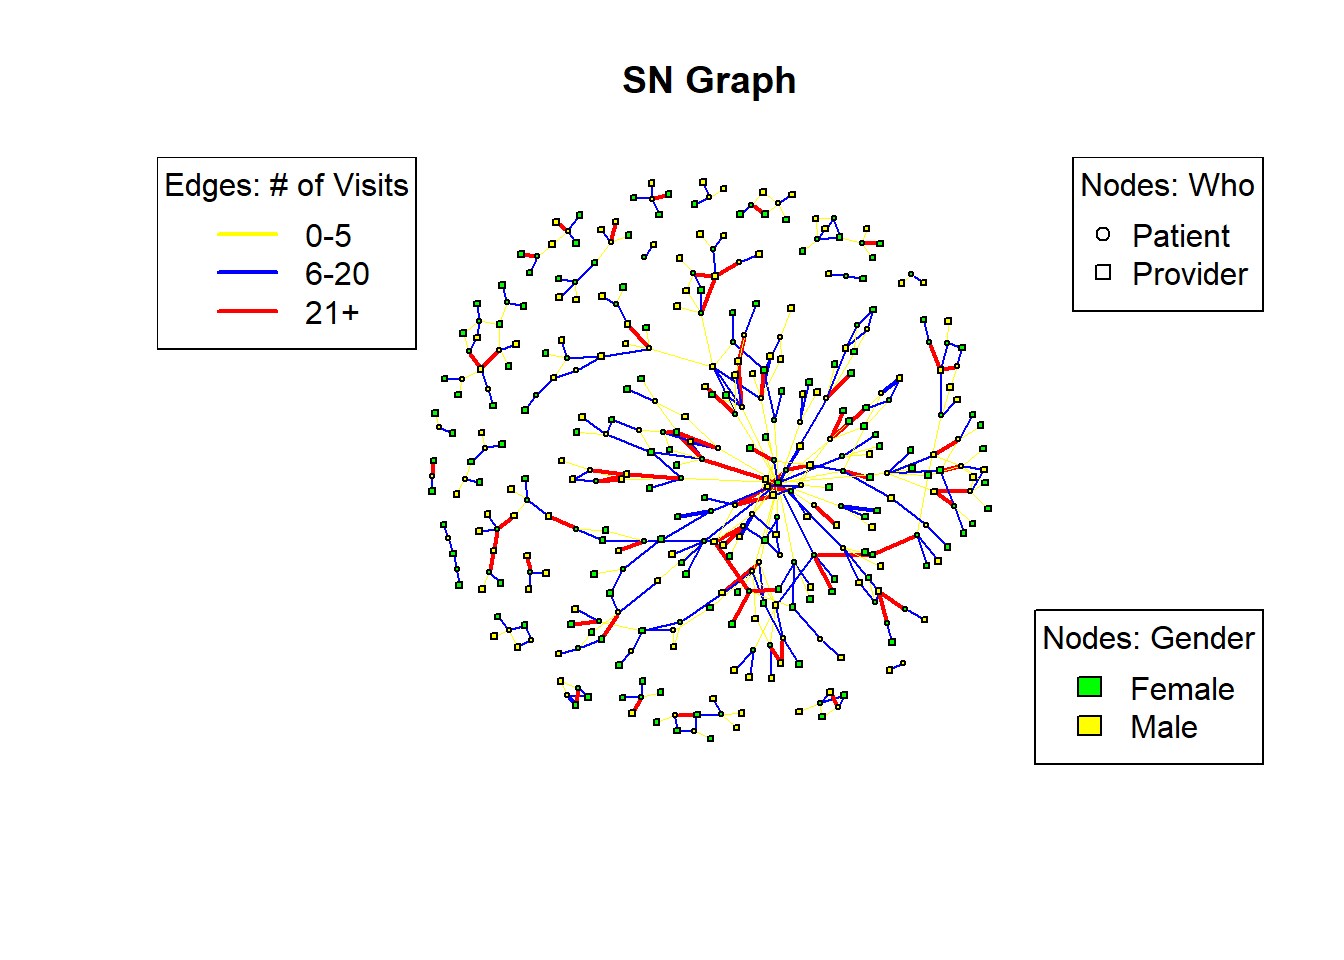
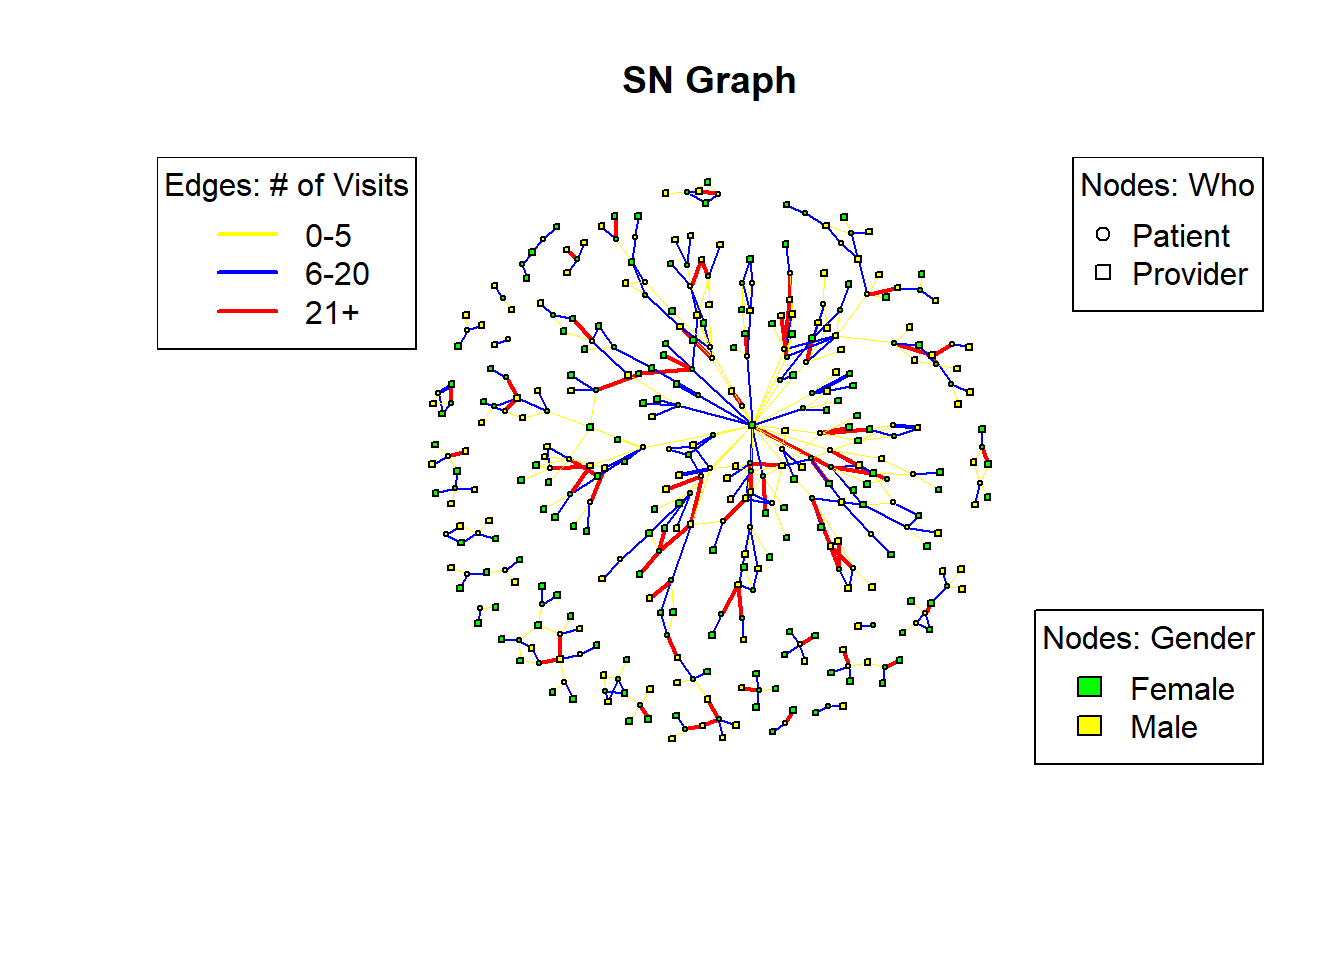
graph legend

Changed region(s): [[0.3125, 0.1875, 0.75, 0.7812]]

diff --git a/docs/index.html b/docs/index.html
@@ -170,7 +170,7 @@ ul.task-list li input[type="checkbox"] {
 
 <div class="quarto-listing quarto-listing-container-default" id="listing-listing">
 <div class="list quarto-listing-default">
-<div class="quarto-post image-right" data-index="0" data-categories="news" data-listing-date-sort="1713326400000" data-listing-file-modified-sort="1713646548932" data-listing-date-modified-sort="NaN" data-listing-reading-time-sort="8">
+<div class="quarto-post image-right" data-index="0" data-categories="news" data-listing-date-sort="1713326400000" data-listing-file-modified-sort="1713646865965" data-listing-date-modified-sort="NaN" data-listing-reading-time-sort="8">
 <div class="thumbnail">
 <p><a href="./posts/Post_One/post_1.html"> <p class="card-img-top"><img src="posts\Post_One\SyntheticMassLogo.png"  class="thumbnail-image card-img"/></p> </a></p>
 </div>
@@ -190,7 +190,7 @@ news
 </div>
 <a href="./posts/Post_One/post_1.html">
 <div class="listing-description">
-Tasks - rename the attribute dimensions for - Marital Status, Gender - fix the age code (need to subtract from DEATHDATE if one exists first) - age might be a better…
+Tasks - rename the attribute dimensions for - Marital Status, Gender - fix the age code (need to subtract from DEATHDATE if one exists first) - age…
 </div>
 </a>
 </div>

diff --git a/docs/posts/Post_One/post_1.html b/docs/posts/Post_One/post_1.html
@@ -180,7 +180,7 @@ pre > code.sourceCode > span > a:first-child::before { text-decoration: underlin
 
 
 
-<p>Tasks - rename the attribute dimensions for - Marital Status, Gender - fix the age code (need to subtract from DEATHDATE if one exists first) - age might be a better attribute to just add to the encounter data and create a column for AGE_AT_TIME_OF_ENCOUNTER - add titles to graphs - add legend to network graph - blocking - maybe different graph for income</p>
+<p>Tasks - rename the attribute dimensions for - Marital Status, Gender - fix the age code (need to subtract from DEATHDATE if one exists first) - age might be a better attribute to just add to the encounter data and create a column for AGE_AT_TIME_OF_ENCOUNTER - add titles to graphs - blocking - maybe different graph for income</p>
 <p>Data for this project were taken from Synthetic Mass, which creates Synthetic patient data from Synthea.</p>
 <p><img src="SyntheticMassLogo.png" class="img-fluid"></p>
 <p>While a whole host of datasets are available within each download, I will focus this project on three datasets: patients.csv, providers.csv, and encounters.csv.</p>
